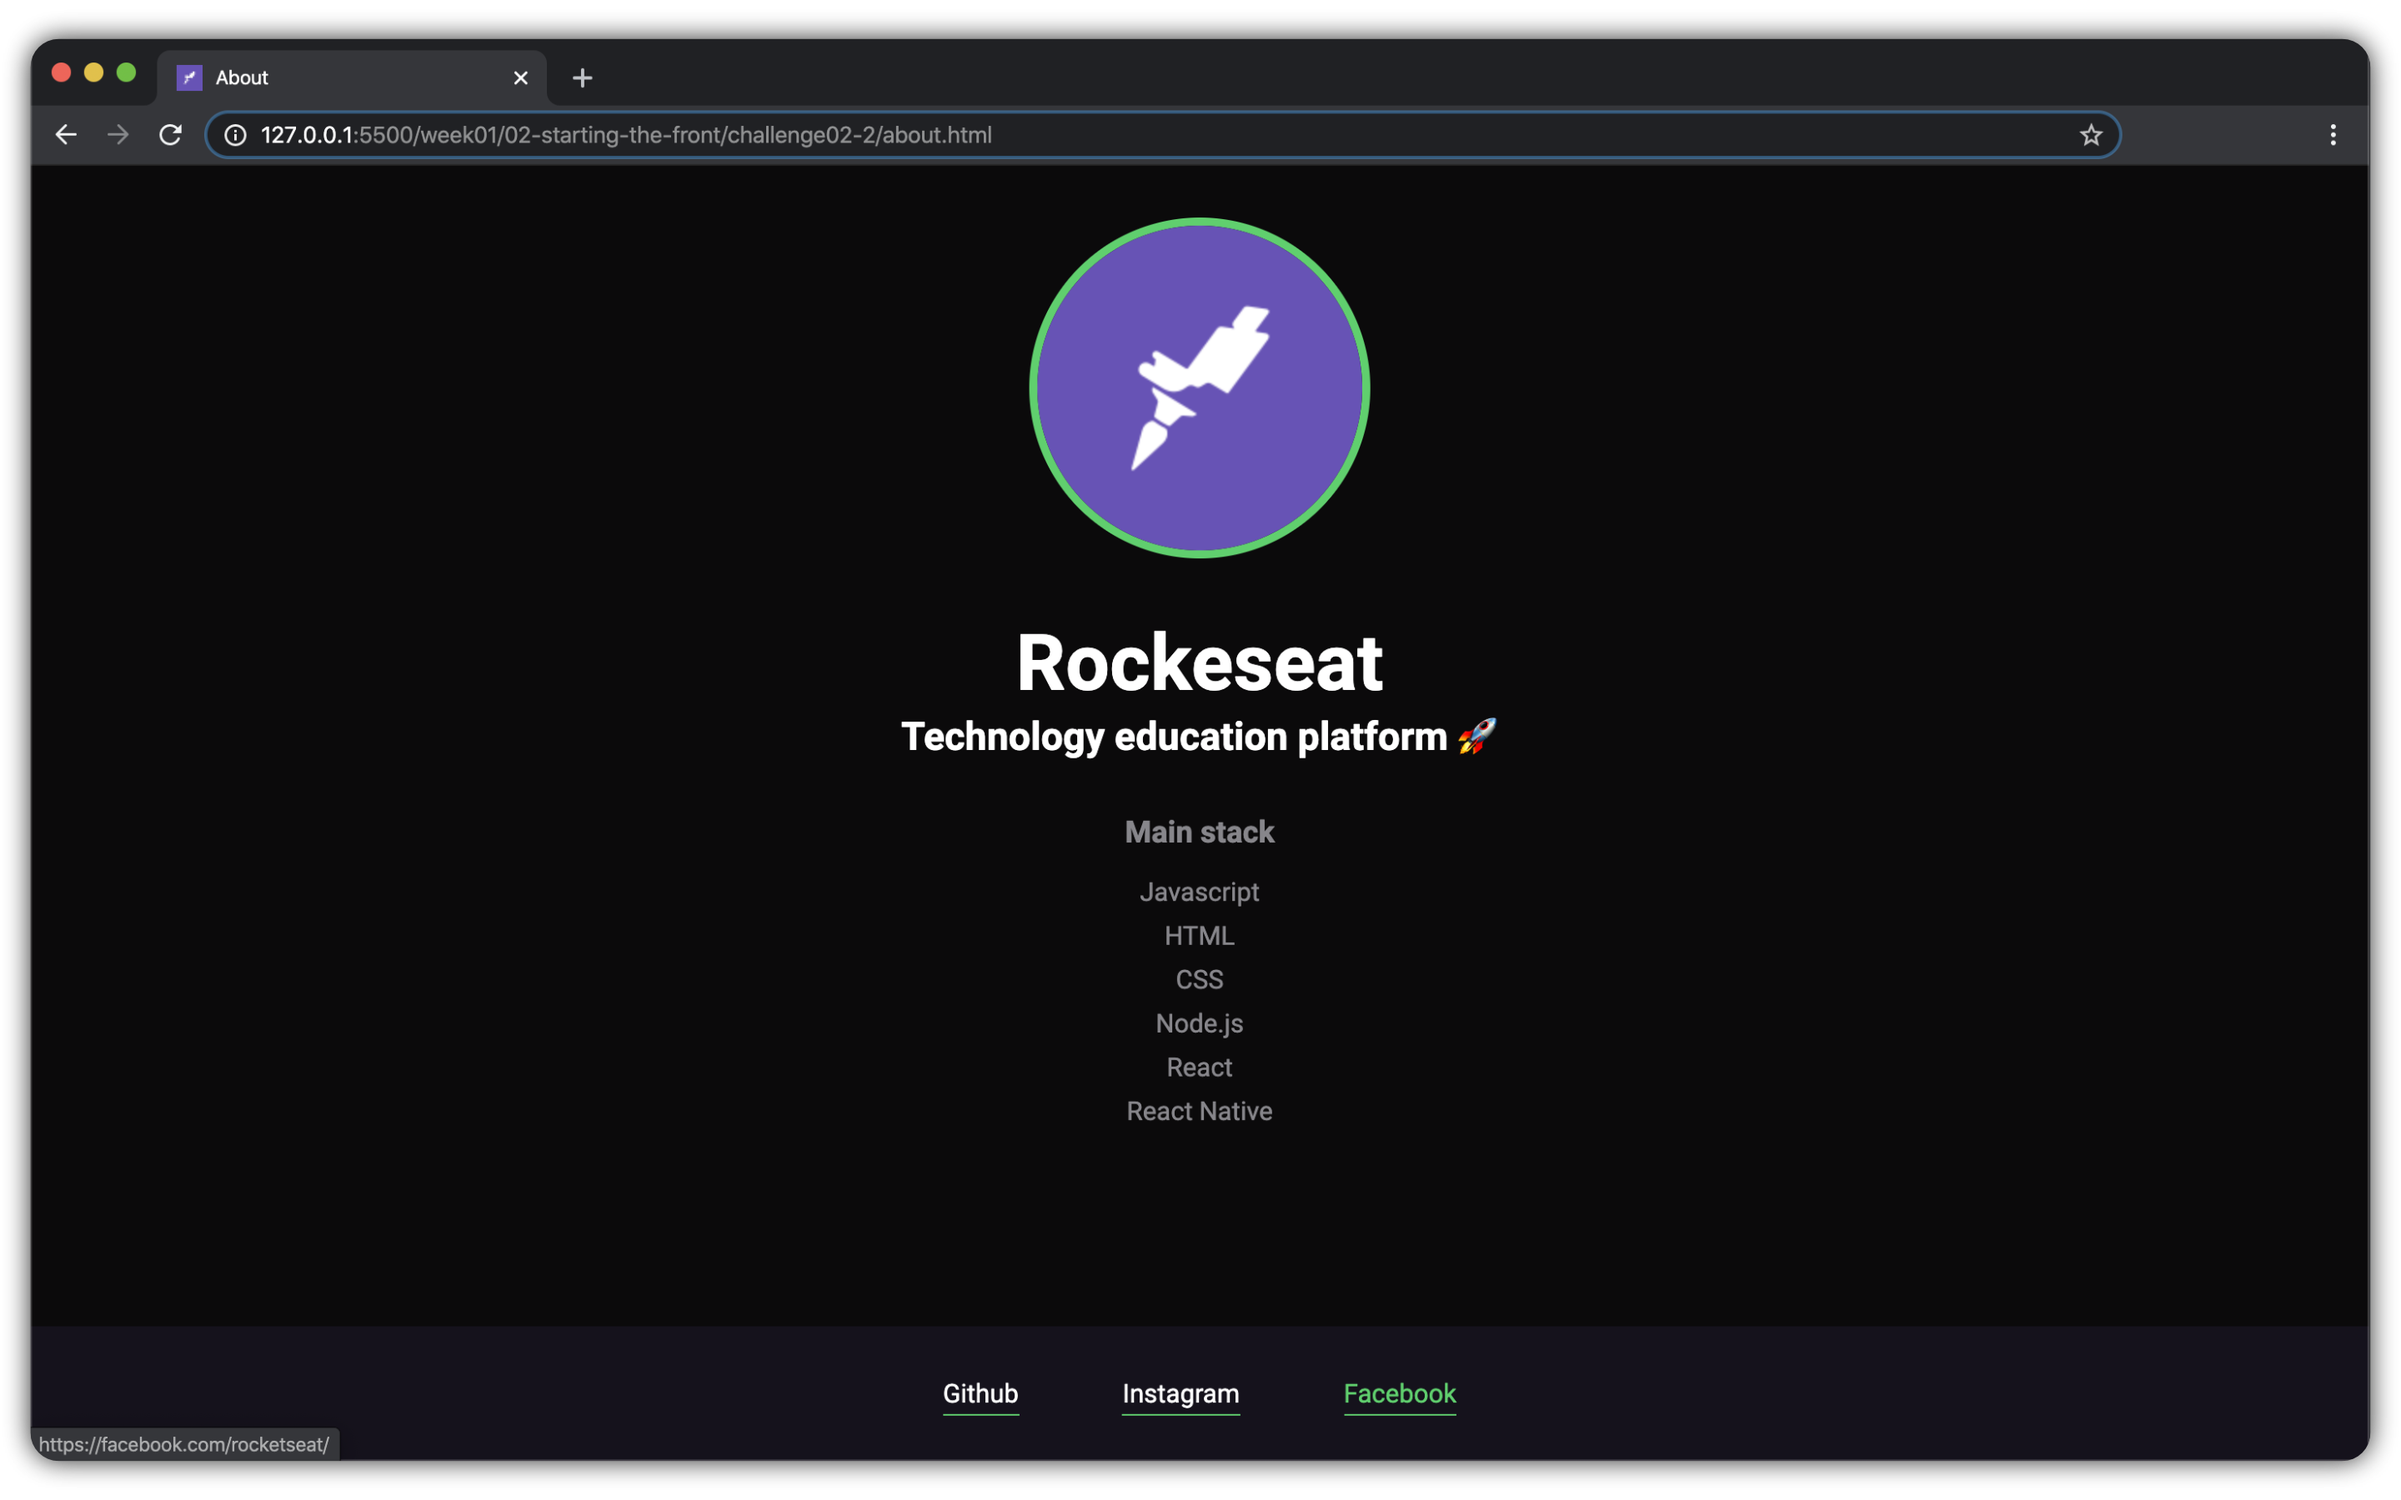
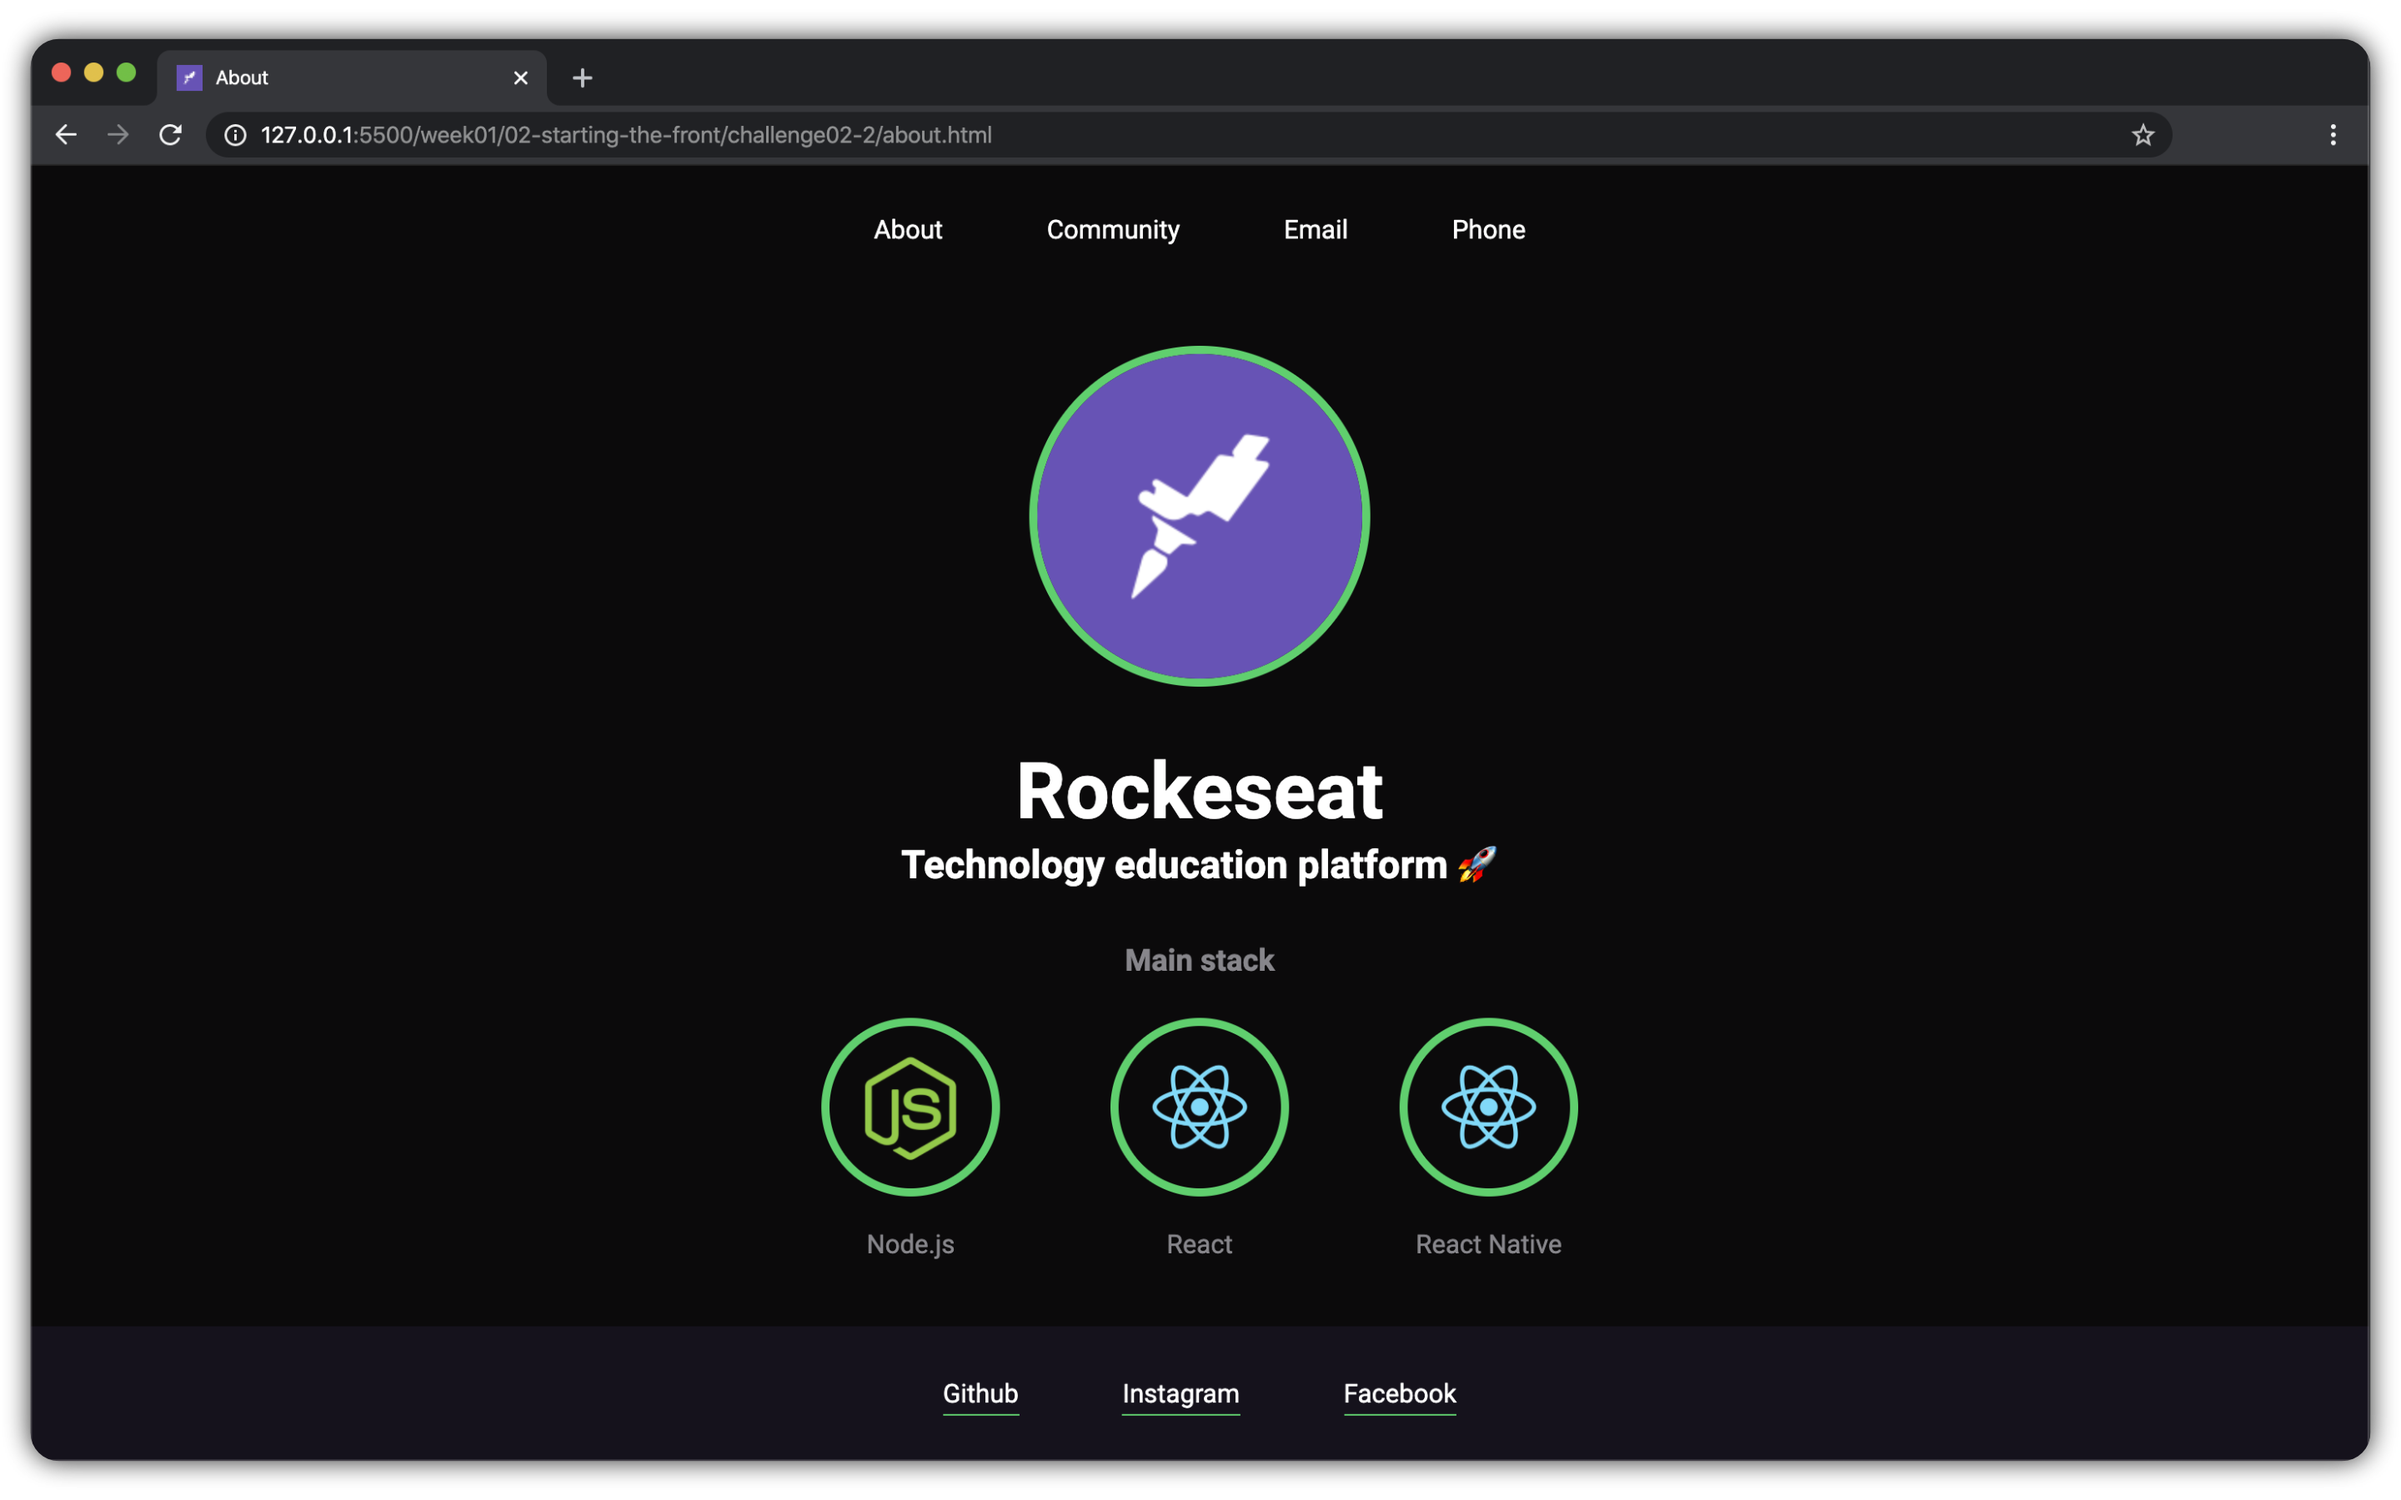
:lipstick: style: add list images

diff --git a/week01/02-starting-the-front/challenge02-2/about.html b/week01/02-starting-the-front/challenge02-2/about.html
@@ -8,18 +8,33 @@
   <link rel="stylesheet" href="style.css">
 </head>
 <body>
+  <header>
+    <nav>
+      <a href="about.html">About</a>
+      <a href="https://discordapp.com/invite/gCRAFhc">Community</a>
+      <a href="mailto:oi@rocketseat.com.br">Email</a>
+      <a href="tel:+5547992078767">Phone</a>
+    </nav>
+  </header>
+
   <div id="wrapper">
     <img src="https://avatars0.githubusercontent.com/u/28929274?s=200&v=4" alt="rocketseat">
     <h1>Rockeseat</h1>
     <h2>Technology education platform 🚀</h2>
     <h3>Main stack</h3>
     <ul>
-      <li>Javascript</li>
-      <li>HTML</li>
-      <li>CSS</li>
-      <li>Node.js</li>
-      <li>React</li>
-      <li>React Native</li>
+      <li>
+        <img src="https://i.dlpng.com/static/png/439759_preview.png" alt="node logo">
+        <p>Node.js</p>
+      </li>
+      <li>
+        <img src="https://upload.wikimedia.org/wikipedia/commons/thumb/a/a7/React-icon.svg/800px-React-icon.svg.png" alt="react logo">
+        <p>React</p>
+      </li>
+      <li>
+        <img src="https://upload.wikimedia.org/wikipedia/commons/thumb/a/a7/React-icon.svg/800px-React-icon.svg.png" alt="react native logo">
+        <p>React Native</p>
+      </li>
     </ul>
   </div>
   <footer>

diff --git a/week01/02-starting-the-front/challenge02-2/style.css b/week01/02-starting-the-front/challenge02-2/style.css
@@ -61,6 +61,15 @@ nav a:hover {
 
 #wrapper ul li {
   margin-bottom: 8px;
+  display: inline-block;
+  margin: 0 32px;
+}
+
+#wrapper ul li img {
+  width: 100px;
+  height: 100px;
+  object-fit: contain;
+  margin: 8px 0 16px;
 }
 
 footer {
